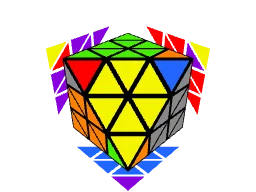
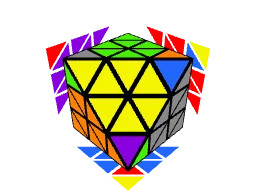
Refactor alg resolution to use resolveCif, update thumbnails, and clean up YAML configurations; Add camera latitude and limit to PuzzleViewer and SolveStep components

Changed region(s): [[0.4062, 0.6875, 0.5938, 1.0], [0.1562, 0.2188, 0.4062, 0.5], [0.7188, 0.2188, 0.8125, 0.375]]

diff --git a/src/scripts/fto-notation.ts b/src/scripts/fto-notation.ts
@@ -1,28 +1,53 @@
 /**
- * Data files store `alg` in CIF community notation (brackets/slices resolved).
- * cubing.js (`Alg`, `<twisty-player>`) names the FTO faces differently, so the
- * π face map is applied here, at the render boundary — never in the data.
+ * Data files store `alg`/`scramble` in CIF community notation. cubing.js FTO
+ * uses the same face names, so tokens pass through unchanged — the ONLY things
+ * resolved here are community-only notations cubing.js can't parse:
  *
- * π (community → cubing): F→BL  B→R  L→B  R→L  BL→BR  BR→F  (U, D fixed)
- * Wide moves: community `Xw` → cubing lowercase (e.g. `BRw'` → `f'`).
- * Rotation tokens (T', Rv, ...) and unrecognized tokens pass through.
+ * - wide moves:  `Xw` -> lowercase (`Rw'` -> `r'`, `BRw` -> `br`)
+ * - slice moves: `Xs` -> `x X'`  (`Rs` -> `r R'`, `Fs'` -> `f' F`, `Xs2` -> `x2 X2`)
+ * - sledges/hedges: `S` -> `(R' L R L')`, `S'` -> `(L R' L' R)`,
+ *   `H` -> `(R B' R' B)`, `H'` -> `(B' R B R')`
+ *
+ * Rotation tokens (Uv, Rv, T', ...) and unrecognized tokens pass through.
+ *
+ * Historical note: this used to apply a "π" face map (F→BL, B→R, L→B, R→L,
+ * BL→BR, BR→F) under the assumption that cubing.js names FTO faces
+ * differently. π was exactly conjugation by Uv (verified on the kpuzzle:
+ * π(x) = Uv'·x·Uv for faces AND rotations), so the old pipeline only worked
+ * because every π-mapped alg was paired with a `Uv` alg_prefix and a -120°
+ * camera — and it silently broke any `Xv` rotation token, which passed
+ * through unmapped and therefore rotated around the wrong axis. Removed in
+ * favor of this 1:1 resolver plus dropping the Uv/-120° compensation from the
+ * data files (pixel-identical rendering, verified by screenshot diff).
  */
-const PI: Record<string, string> = {
-	U: 'U', D: 'D', F: 'BL', B: 'R', L: 'B', R: 'L', BL: 'BR', BR: 'F',
+const SH: Record<string, string> = {
+	H: "(R B' R' B)",
+	"H'": "(B' R B R')",
+	S: "(R' L R L')",
+	"S'": "(L R' L' R)",
 };
 
-export function cifToTwizzle(alg: string): string {
+export function resolveCif(alg: string): string {
 	return alg
 		.split(/\s+/)
+		.filter(Boolean)
 		.map((tok) => {
 			const open = tok.match(/^\(*/)?.[0] ?? '';
 			const close = tok.match(/\)*$/)?.[0] ?? '';
 			const core = tok.slice(open.length, tok.length - close.length);
-			const m = core.match(/^(2?)(BL|BR|U|D|F|B|L|R)(w?)(2?)('?)$/);
-			if (!m) return tok;
-			const [, pre2, face, w, post2, prime] = m;
-			const mapped = PI[face];
-			return `${open}${pre2}${w ? mapped.toLowerCase() : mapped}${post2}${prime}${close}`;
+			if (SH[core]) return `${open}${SH[core]}${close}`;
+			let m = core.match(/^(BL|BR|U|D|F|B|L|R)w(2?)('?)$/);
+			if (m) return `${open}${m[1].toLowerCase()}${m[2]}${m[3]}${close}`;
+			m = core.match(/^(BL|BR|U|D|F|B|L|R)s(2?)('?)$/);
+			if (m) {
+				const [, face, two, prime] = m;
+				const wide = face.toLowerCase();
+				// Xs = x X' ; Xs' = x' X ; Xs2 = x2 X2
+				return prime
+					? `${open}${wide}'${two} ${face}${two}${close}`
+					: `${open}${wide}${two} ${face}'${two}${close}`;
+			}
+			return tok;
 		})
 		.join(' ');
 }

diff --git a/src/content.config.ts b/src/content.config.ts
@@ -8,7 +8,8 @@ import { docsSchema } from '@astrojs/starlight/schema';
  * A single alg case.
  *
  * - `alg` - CIF community notation (brackets/slices resolved); what <twisty-player> animates
- *   after applying the π face map at render time.
+ *   after resolveCif normalizes community-only tokens (Xw/Xs/H/S) at render time.
+ *   cubing.js FTO uses the same face names, so moves play exactly as written.
  * - `scramble` - inverse of `alg` in CIF community notation; precomputed so the
  *   user can inspect/correct it. Used as the twisty-player's setup-alg.
  * - `showcase_alg` - the written alg shown to the user (community notation;
@@ -61,25 +62,20 @@ const algs = defineCollection({
 		// Overrides `setup_suffix` for cases in that family.
 		// A case-level `postset` still takes precedence over both.
 		family_suffixes: z.record(z.string(), z.string()).optional(),
-		// Prepended to the interactive solving alg only (not the setup-alg).
-		// Use when algs assume a different base orientation than the setup provides.
-		// NOT applied in the thumbnail renderer — safe to change without
-		// regenerating webp thumbnails.
+		// Appended to every case's setup-alg, after the scramble (legacy frame
+		// compensation — the last-layer files used it together with a -120°
+		// camera_longitude before the π face map was removed; currently unused).
+		// NOT applied in the thumbnail renderer.
 		alg_prefix: z.string().optional(),
 		// Per-family alg_prefix overrides (family name -> prefix).
 		family_alg_prefixes: z.record(z.string(), z.string()).optional(),
-		// Camera longitude in degrees for the interactive twisty-player.
-		// Compensates for alg_prefix rotation applied to the setup.
+		// Camera longitude in degrees for the interactive twisty-player
+		// (default 0). Legacy files paired -120 with a `Uv` alg_prefix to
+		// compensate the removed π face map.
 		camera_longitude: z.number().optional(),
 		// Render thumbnails from a raised top-down camera angle (shows the top
 		// face plus all sides) instead of the default flat face-on view.
 		top_down: z.boolean().optional(),
-		// Set when the file's scrambles are stored in CIF community notation and
-		// must be π-mapped (cifToTwizzle) at render time, exactly like `alg`.
-		// Unset (1ll3t/tcp/olp convention): scrambles are handed to cubing.js
-		// unmapped and the `alg_prefix` (Uv) compensates the frame offset.
-		// Used by samples/ (example solves), which have no frame compensation.
-		map_scramble: z.boolean().optional(),
 		// Serialized cubing.js stickering mask (experimental-stickering-mask-orbits,
 		// e.g. "C4RNER:-I-I-I,...") applied to every case of the file — interactive
 		// player and thumbnails. Hides everything but the recognition stickers

diff --git a/AGENTS.md b/AGENTS.md
@@ -3,8 +3,8 @@
 Bencisco FTO — method tutorial + alg database. Astro 7 + Starlight, Tailwind CSS v4 (`@tailwindcss/vite`), static output, no backend.
 
 - `src/content/docs/` — MDX pages (Starlight content root). Sidebar is configured manually in `astro.config.mjs`. Advanced pages get a sidebar badge via frontmatter; advanced subsections use `<details>`.
-- `src/data/*.yaml` — alg databases, zod-validated via the `algs` collection in `src/content.config.ts`. Each case: `alg` (CIF community notation, with brackets/slices resolved — drives the applet; equals the showcase alg when the showcase has no rotation), `scramble` (inverse of `alg`, precomputed for inspection/correction; used by the renderer as the twisty-player setup-alg instead of computing the inverse at runtime), `showcase_alg` (community notation — the written alg shown to the user, bold), `showcase_label` (optional colored prefix for the showcase alg, e.g. `"EIF"` / `"CIF -> EIF"`), `eif_alg` (Edge-in-Front notation, non-bold with `(EIF)` colored prefix; `eif_label` overrides the label text), `name` (prominent label), `family` (small secondary label). cubing.js names FTO faces differently, so the community→Twizzle face map (π: F→BL, B→R, L→B, R→L, BL→BR, BR→F) is applied to `alg` at render time by `cifToTwizzle()` in `src/scripts/fto-notation.ts` — never stored in the data. `setup_prefix`/`preset`/suffix fields are cubing-frame and pass through untranslated. Optional per-file `setup_prefix` (e.g. `"LBLv"` on last-layer files) is prepended to each case's setup-alg so yellow is on top; a case-level `preset` field overrides it for individual cases. Optional per-file `top_down: true` (1ll3t, olp, tcp) renders thumbnails from a raised top-down camera angle instead of the default flat face-on view. In `1ll3t.yaml`, showcase algs use CIF community notation (`S`/`H` = sledge/hedge, `{X,Y}` = reorient with X on top and Y in front, `[U]` = pre-AUF, `Rs`/`Fs` = slice suffixes); the `alg` field holds the same alg resolved to plain CIF moves (no brackets, `S`/`H`/slices expanded, wide moves as `Xw`). `tcp.yaml` was converted with the same pipeline and validated 1:1 against the 1ll3t T-family states (see `tx/tcp-conversion.md`); extra alg variants are shown via `showcase_alg1`, `showcase_alg2`, ... `olp.yaml` was converted from plain CIF (no brackets; `H`/`S`/`S'` expanded, `(Uv)` rotations kept in `alg` but stripped from `scramble` — see `tx/olp-conversion.md`); each case pairs an Even and an Odd solution via `showcase_alg`/`showcase_alg1` with `showcase_label`s. The collection glob is `**/*.yaml`, so subdirectories work: `src/data/samples/` holds example-solve data (one case per solve step, `id` referenced from the MDX). Samples set file-level `map_scramble: true` because their `scramble` is stored in CIF community notation and must be π-mapped at render time exactly like `alg` — unset means the 1ll3t/tcp/olp convention (scramble handed to cubing.js unmapped, `alg_prefix` compensates the frame).
-- `src/components/SolveStep.astro` — renders one example-solve step (`src` + case `id` props) as a direct-embed `PuzzleViewer`; applies `cifToTwizzle()` to the scramble when the data file sets `map_scramble: true` (PuzzleViewer itself always expects a cubing-frame scramble).
+- `src/data/*.yaml` — alg databases, zod-validated via the `algs` collection in `src/content.config.ts`. Each case: `alg` (CIF community notation, with brackets/slices resolved — drives the applet; equals the showcase alg when the showcase has no rotation), `scramble` (inverse of `alg`, precomputed for inspection/correction; used by the renderer as the twisty-player setup-alg instead of computing the inverse at runtime), `showcase_alg` (community notation — the written alg shown to the user, bold), `showcase_label` (optional colored prefix for the showcase alg, e.g. `"EIF"` / `"CIF -> EIF"`), `eif_alg` (Edge-in-Front notation, non-bold with `(EIF)` colored prefix; `eif_label` overrides the label text), `name` (prominent label), `family` (small secondary label). cubing.js FTO uses the same face names as the community, so data plays exactly as written; the only render-time transform is `resolveCif()` in `src/scripts/fto-notation.ts`, which normalizes community-only tokens: `Xw` → lowercase (`Rw'` → `r'`), `Xs` slices → `x X'` (`Fs'` → `f' F`), `S`/`H`/`S'`/`H'` → sledge/hedge expansions. Everything else (faces, `Xv` rotations, `T`, parens) passes through. (Historical: a "π" face map used to remap faces at render time; it was exactly conjugation by Uv, only worked when paired with a `Uv` alg_prefix + `-120` camera, and broke `Xv` rotations — removed; rendering is pixel-identical without them.) `setup_prefix`/`preset`/suffix fields pass through untranslated. Optional per-file `setup_prefix` (e.g. `"LBLv"` on last-layer files) is prepended to each case's setup-alg so yellow is on top; a case-level `preset` field overrides it for individual cases. Optional per-file `top_down: true` (1ll3t, olp, tcp) renders thumbnails from a raised top-down camera angle instead of the default flat face-on view. In `1ll3t.yaml`, showcase algs use CIF community notation (`S`/`H` = sledge/hedge, `{X,Y}` = reorient with X on top and Y in front, `[U]` = pre-AUF, `Rs`/`Fs` = slice suffixes); the `alg` field holds the same alg resolved to plain CIF moves (no brackets, `S`/`H`/slices expanded, wide moves as `Xw`). `tcp.yaml` was converted with the same pipeline and validated 1:1 against the 1ll3t T-family states (see `tx/tcp-conversion.md`); extra alg variants are shown via `showcase_alg1`, `showcase_alg2`, ... `olp.yaml` was converted from plain CIF (no brackets; `H`/`S`/`S'` expanded, `(Uv)` rotations kept in `alg` but stripped from `scramble` — see `tx/olp-conversion.md`); each case pairs an Even and an Odd solution via `showcase_alg`/`showcase_alg1` with `showcase_label`s. The collection glob is `**/*.yaml`, so subdirectories work: `src/data/samples/` holds example-solve data (one case per solve step, `id` referenced from the MDX; `scramble` is the cumulative setup — WCA scramble plus all previous steps).
+- `src/components/SolveStep.astro` — renders one example-solve step (`src` + case `id` props) as a direct-embed `PuzzleViewer`.
 - `src/components/PuzzleViewer.astro` — thumbnail-first FTO viewer; `cubing/twisty` is dynamically imported on click (never in the initial bundle). Use direct embed (no `thumbnail` prop) only on low-density pages. `hintFacelets` prop (also on `AlgTable`/`CaseCard`) keeps twisty's hint facelets on instead of forcing `hint-facelets="none"` (used on the TCP page). `stickeringMask` prop passes a cubing.js stickering mask (`experimental-stickering-mask-orbits`) through to the player; normally set file-level via `stickering_mask` in the YAML (used by `olp.yaml`, which hides everything but the OLP recognition stickers) and honored by the thumbnail renderer.
 - `src/components/CaseDensityToggle.astro` — dice-button cases-per-row toggle (2/3/4) rendered by `AlgTable` at the top of every case grid. Persists per-page to `localStorage` (`fto-case-density-<src>`, keyed by the YAML data file name) and sets `data-density` on its own `.alg-density-root`; `global.css` overrides the grid columns (lg breakpoint) and applies `zoom` to `.case-card` (1.15 for 2-up, 0.9 for 4-up) so only card contents (fonts, previews, interactive player) are magnified/shrunk.
 - `public/thumbnails/<case-id>.webp` — per-case previews (unsolved case state), generated by `npm run imgs` (screenshots `/thumbnail-renderer/` via playwright-core + system Chrome; falls back to `placeholder.svg` when missing). Re-run after editing YAML data.
